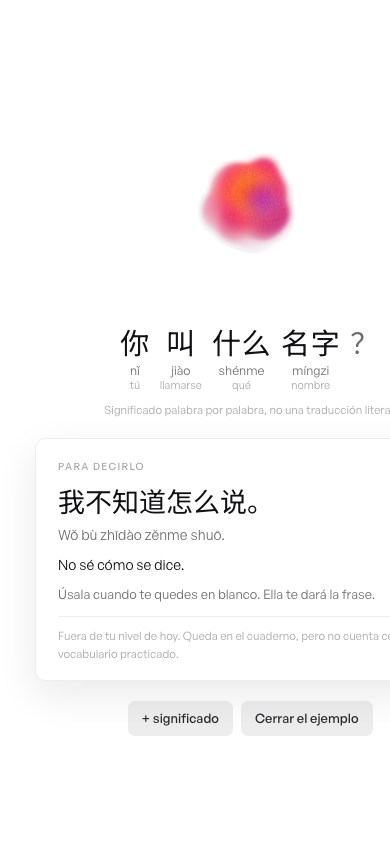
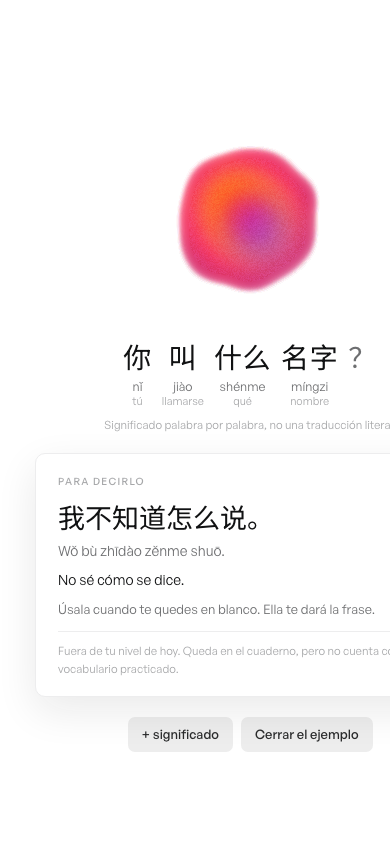
Mover la masa solo cuando alguien habla, y que quepa lo que ella dice
El silencio ahora se ve como silencio: sin voz la masa se queda quieta en el
centro, sin latido propio. El movimiento pasa a depender del nivel de audio
real, con una curva (level^0.62) porque el habla pasa casi todo el tiempo en
volúmenes bajos y un mapeo lineal la dejaba temblando apenas. Solo "pensando"
conserva algo de deriva, que es la única señal de que está procesando.

Dos fallos visibles corregidos:

- El lienzo dejaba un cuadrado gris. El rastro se lavaba hacia blanco con alpha,
  que es asintótico: nunca llegaba a blanco puro y el residuo dibujaba la caja
  del canvas. Ahora se borra hacia transparente con destination-out y es el
  blanco de la página el que termina el trabajo.
- El subtítulo se salía de la pantalla. Estaba dimensionado para preguntas
  cortas, así que un párrafo con explicación se renderizaba a tamaño de titular
  y se cortaba justo cuando más falta hace leerlo. El cuerpo ahora escala con la
  longitud de la línea, en cuatro tramos, con un tope de altura.

El grano deja de hervir cuando la masa está quieta, que era un parpadeo que
nadie pidió. Y la masa es más grande: al viajar menos, el rastro necesita mucho
menos espacio alrededor.

Del lado del agente, que sonaba robótico y no atendía a lo que se le pedía:

- Sección nueva sobre quién lleva la sesión: "volvamos al comienzo", "más
  lento", "repite", "vamos muy rápido" se obedecen de inmediato, y ante la duda
  se pregunta en vez de seguir adelante.
[…]

diff --git a/src/Gradient.tsx b/src/Gradient.tsx
@@ -11,15 +11,20 @@ const BLOBS = [
   {color:[146,  62, 236], ax:.26, ay:.31, sx:5.60, sy:1.10, rate:.16, size:.82, weight:.62},
 ];
 
-// fade  — how much white is washed over the previous frame. Lower means longer trails.
-// travel— how far the whole mass wanders, which is what actually smears.
-// amp   — how hard the outline deforms. speed — the clock.
-const TARGETS: Record<OrbState, {vivid:number; scale:number; speed:number; fade:number; amp:number; travel:number; grain:number}> = {
-  idle:      {vivid:.82, scale:.86, speed:.70, fade:.085, amp:.16, travel:.26, grain:.14},
-  listening: {vivid:.96, scale:.92, speed:1.05, fade:.070, amp:.20, travel:.34, grain:.13},
-  thinking:  {vivid:.90, scale:.80, speed:2.3, fade:.040, amp:.27, travel:.52, grain:.16},
-  speaking:  {vivid:1.0, scale:.94, speed:1.55, fade:.055, amp:.24, travel:.44, grain:.11},
+// The body only moves when someone is actually talking. `rest` is the motion it keeps
+// with no sound at all — zero everywhere except while she is thinking, where a little
+// drift is the only signal that anything is happening. `voice` is how much the live
+// audio level adds on top. With both at zero the mass sits still, dead centre.
+// fade: opacity of the wash over the previous frame — lower means a longer trail.
+// travel: how far the mass can wander. amp: how hard the outline deforms.
+const TARGETS: Record<OrbState, {vivid:number; scale:number; speed:number; fade:number; amp:number; travel:number; grain:number; rest:number; voice:number}> = {
+  idle:      {vivid:.86, scale:.98, speed:.70, fade:.090, amp:.13, travel:.20, grain:.14, rest:0,   voice:0},
+  listening: {vivid:.97, scale:1.0, speed:1.05, fade:.070, amp:.19, travel:.30, grain:.13, rest:0,   voice:1.15},
+  thinking:  {vivid:.92, scale:.94, speed:2.0, fade:.045, amp:.25, travel:.42, grain:.16, rest:.5,  voice:.3},
+  speaking:  {vivid:1.0, scale:1.02, speed:1.5, fade:.058, amp:.22, travel:.38, grain:.11, rest:0,   voice:1.15},
 };
+// The shape the outline relaxes into when nothing is moving: organic, but never a pulse.
+const REST_AMP = .11;
 
 const lerp = (a:number, b:number, t:number) => a + (b - a) * t;
 
@@ -89,7 +94,10 @@ export default function Gradient({state, getLevel, size = 280}:{state:OrbState; 
   useEffect(() => {
     const canvas = canvasRef.current;
     if (!canvas) return;
-    const ctx = canvas.getContext('2d', {alpha:false});
+    // Transparent, not opaque white: washing towards white is asymptotic, so the trail
+    // never quite got there and left a permanent grey square the size of the canvas.
+    // Erasing towards transparent lets the page's own white finish the job.
+    const ctx = canvas.getContext('2d', {alpha:true});
     if (!ctx) return;
 
     const still = window.matchMedia?.('(prefers-reduced-motion: reduce)').matches ?? false;
@@ -97,8 +105,8 @@ export default function Gradient({state, getLevel, size = 280}:{state:OrbState; 
     const box = Math.round(size * dpr);
     canvas.width = canvas.height = box;
     const C = box / 2;
-    // The body is small relative to the canvas: the rest is room for the trail to live in.
-    const R = C * .42;
+    // Bigger body now that it travels less: the trail needs far less room to live in.
+    const R = C * .62;
 
     // The body is drawn off-screen so it can be composited through a blur: a clipped
     // path alone has a razor edge, and the reference has none anywhere.
@@ -112,11 +120,8 @@ export default function Gradient({state, getLevel, size = 280}:{state:OrbState; 
     const patterns = tiles.map(t => ctx.createPattern(t, 'repeat')).filter(Boolean) as CanvasPattern[];
 
     let vivid = TARGETS.idle.vivid, scale = TARGETS.idle.scale, wash = TARGETS.idle.fade;
-    let amp = TARGETS.idle.amp, travel = TARGETS.idle.travel, grain = TARGETS.idle.grain;
+    let amp = REST_AMP, travel = TARGETS.idle.travel, grain = TARGETS.idle.grain, motion = 0;
     let level = 0, drift = 0, frame = 0, last = performance.now(), grainClock = 0, tile = 0;
-
-    ctx.fillStyle = '#fff';
-    ctx.fillRect(0, 0, box, box);
 
     function paint(now:number) {
       const dt = Math.min((now - last) / 1000, .05);
@@ -131,22 +136,31 @@ export default function Gradient({state, getLevel, size = 280}:{state:OrbState; 
       level = raw > level ? lerp(level, raw, 1 - Math.exp(-dt * 18)) : lerp(level, raw, 1 - Math.exp(-dt * 4.5));
 
       const ease = 1 - Math.exp(-dt * 3.2);
+      // How alive the body is right now: silence means still, voice means moving.
+      // Curved, not linear: speech spends most of its time at low volume, and a linear
+      // map would leave the body barely twitching through a normal sentence.
+      const heard = level > 0 ? Math.pow(level, .62) : 0;
+      const wanted = still ? 0 : Math.min(target.rest + target.voice * heard, 1.4);
+      motion = lerp(motion, wanted, 1 - Math.exp(-dt * 4));
       vivid  = lerp(vivid,  target.vivid,  ease);
       scale  = lerp(scale,  target.scale,  ease);
       wash   = lerp(wash,   target.fade,   ease);
-      amp    = lerp(amp,    target.amp,    ease);
+      amp    = lerp(amp,    REST_AMP + (target.amp - REST_AMP) * Math.min(motion, 1), ease);
       travel = lerp(travel, target.travel, ease);
       grain  = lerp(grain,  target.grain,  ease);
-      if (!still) drift += dt * target.speed * (1 + level * .9);
+      drift += dt * target.speed * motion;
 
-      // The trail: instead of clearing, wash the previous frame towards white. What
-      // survives underneath is the smear. This is the whole motion-blur trick.
-      ctx!.globalCompositeOperation = 'source-over';
-      ctx!.fillStyle = `rgba(255,255,255,${still ? 1 : wash})`;
+      // The trail: instead of clearing, erase the previous frame a little further
+      // towards transparent. What survives underneath is the smear.
+      ctx!.globalCompositeOperation = 'destination-out';
+      ctx!.fillStyle = `rgba(0,0,0,${still ? 1 : wash})`;
       ctx!.fillRect(0, 0, box, box);
+      ctx!.globalCompositeOperation = 'source-over';
 
-      const bloom = scale + (still ? 0 : Math.sin(drift * .9) * .012) + level * .10;
-      const reach = travel * (1 + level * 1.1);
+      // No breathing: a mass that pulses on its own reads as an idle animation, and the
+      // brief is that it only moves when somebody is talking.
+      const bloom = scale + heard * .09;
+      const reach = travel * motion;
       // Where the body sits this frame. Two decorrelated walks so it wanders, never orbits.
       const cx = C + C * reach * noise2(drift * 1.45, 11.5);
       const cy = C + C * reach * noise2(7.3, drift * 1.32);
@@ -186,8 +200,12 @@ export default function Gradient({state, getLevel, size = 280}:{state:OrbState; 
       // Grain goes on the body only. Painted over the whole box it lands on the trail
       // too, and since the trail is re-grained every frame it silts up into red speckle.
       if (patterns.length) {
-        grainClock += dt;
-        if (grainClock > .07) { grainClock = 0; tile = (tile + 1) % patterns.length; }
+        // Grain boils only while the body moves. Left running over a still mass it is a
+        // shimmer nobody asked for, and the brief is that silence looks like silence.
+        if (motion > .02) {
+          grainClock += dt;
+          if (grainClock > .07) { grainClock = 0; tile = (tile + 1) % patterns.length; }
+        }
         ctx!.save();
         traceBlob(ctx!, cx, cy, R * bloom * .97, drift * 1.15, amp * (1 + level * .25), 1.7);
         ctx!.clip();

diff --git a/src/App.tsx b/src/App.tsx
@@ -172,6 +172,8 @@ export default function App() {
   const lastAgentLine=demo ? DEMO_LINE : (active?.messages.filter(m=>m.role==='agent').at(-1)?.text ?? '');
   // The subtitle holds until the next line replaces it. Nothing fades out from under you.
   const subtitle:Token[]=glossChinese(lastAgentLine,curriculum.words);
+  const subtitleWeight=subtitle.reduce((n,tk)=>n+(tk.hanzi?tk.hanzi.length*2:Math.ceil((tk.text?.length ?? 0)/2)),0);
+  const subtitleSize=subtitleWeight>90?'xs':subtitleWeight>56?'s':subtitleWeight>30?'m':'l';
   const orbState:OrbState = !connected ? 'idle'
     : conversation.isSpeaking ? 'speaking'
     : (closing || active?.messages.at(-1)?.role==='user') ? 'thinking'
@@ -183,9 +185,9 @@ export default function App() {
   // ── The conversation. Nothing on screen but the orb and what she just said. ──
   if (live || (demo && !active)) return <div className="room">
     <button className="room-exit" aria-label="Terminar la sesión" onClick={()=>{if(demo&&!active){setDemo(false);return}void stop()}}><X size={20}/></button>
-    <div className="room-orb"><Gradient state={demo?'speaking':orbState} getLevel={getLevel} size={compact?(phrase?168:220):(phrase?248:320)}/></div>
+    <div className="room-orb"><Gradient state={demo?'speaking':orbState} getLevel={getLevel} size={compact?(phrase?200:258):(phrase?300:380)}/></div>
     {caption && <p className="room-caption">{caption}</p>}
-    {subtitle.length>0 && <Subtitle tokens={subtitle} density={density}/>}
+    {subtitle.length>0 && <Subtitle tokens={subtitle} density={density} size={subtitleSize}/>}
     {density==='full' && subtitle.some(t=>t.es) && <p className="room-gloss">Significado palabra por palabra, no una traducción literal.</p>}
     {error && <p role="alert" className="room-error">{error}</p>}
     {phrase && <PhraseCard phrase={phrase} onClose={()=>setPhrase(null)}/>}
@@ -237,8 +239,8 @@ export default function App() {
   </div>;
 }
 
-function Subtitle({tokens,density}:{tokens:Token[]; density:Density}) {
-  return <p className={'subtitle subtitle-'+density}>
+function Subtitle({tokens,density,size}:{tokens:Token[]; density:Density; size:string}) {
+  return <p className={`subtitle subtitle-${density} subtitle-${size}`}>
     {tokens.map((t,i)=> t.text !== undefined
       ? <span className="subtitle-es" key={i}>{t.text}</span>
       : <span className={'subtitle-word'+(t.es?'':' subtitle-plain')} key={i}>

diff --git a/src/styles.css b/src/styles.css
@@ -123,7 +123,9 @@ body {
   justify-content: center;
   gap: 2px 10px;
   margin: 0;
-  max-width: 660px;
+  max-width: 760px;
+  max-height: 42vh;
+  overflow-y: auto;
 }
 .subtitle-word {
   display: inline-flex;
@@ -156,6 +158,19 @@ body {
   color: var(--soft);
 }
 .subtitle-hanzi .subtitle-word b { font-size: 40px; }
+
+/* Type scales with the length of the line: a paragraph at headline size falls off
+   the screen, and a three-word question at paragraph size is a whisper. */
+.subtitle-l  .subtitle-word b { font-size: 36px; }
+.subtitle-m  .subtitle-word b { font-size: 29px; }
+.subtitle-s  .subtitle-word b { font-size: 24px; }
+.subtitle-xs .subtitle-word b { font-size: 20px; }
+.subtitle-s  .subtitle-word i, .subtitle-xs .subtitle-word i { font-size: 11.5px; margin-top: 3px; }
+.subtitle-s  .subtitle-word small, .subtitle-xs .subtitle-word small { font-size: 10px; }
+.subtitle-s  .subtitle-es { font-size: 14px; }
+.subtitle-xs .subtitle-es { font-size: 13px; }
+.subtitle-hanzi.subtitle-s  .subtitle-word b { font-size: 27px; }
+.subtitle-hanzi.subtitle-xs .subtitle-word b { font-size: 23px; }
 
 /* ── The pinned phrase: the answer to "¿cómo digo…?" ─────────────────── */
 
@@ -444,8 +459,11 @@ details summary { cursor: pointer; color: var(--soft); font-size: 13px; }
 
 @media (max-width: 640px) {
   .room { gap: 20px; padding: 60px 18px 32px; }
-  .subtitle-word b { font-size: 29px; }
-  .subtitle-hanzi .subtitle-word b { font-size: 33px; }
+  .subtitle-l  .subtitle-word b { font-size: 28px; }
+  .subtitle-m  .subtitle-word b { font-size: 24px; }
+  .subtitle-s  .subtitle-word b { font-size: 20px; }
+  .subtitle-xs .subtitle-word b { font-size: 17px; }
+  .subtitle { max-height: 38vh; }
   .start h1, .notebook h1 { font-size: 30px; }
   .summary { grid-template-columns: 1fr; gap: 22px; }
   main { padding: 0 18px 48px; }

diff --git a/agent/system-prompt.md b/agent/system-prompt.md
@@ -19,6 +19,19 @@ The selected curriculum is a curated subset of the HSK 3.0 examination syllabus 
 Use ONLY Chinese words listed in allowed_vocabulary. In particular, do not add convenient words such as 很高兴, 认识, 老师, 请, 谢谢, 再见 or 对 unless they are explicitly included. Use Spanish instead when necessary. Combining allowed words into original sentences is permitted. The UI requires Chinese text to be segmentable into allowed entries. Student names may be acknowledged in Latin characters but do not transliterate them into new Chinese characters. Do not repeat a student's out-of-level Chinese phrase.
 Introduce no more than five new lexical items in the entire session, exclusively from new_words. Foundation/function words in the supplied list are scaffolding, not evidence that the student knows them. If the student does not understand them, explain in Spanish and simplify; count explicitly taught unfamiliar foundation words toward the same five-word budget, dropping a target word if needed. Keep a mental set of introduced words; do not count repetitions again. Do not silently increase HSK level at the student's request. Explain in Spanish that advanced content requires a different session; offer one allowed alternative. Never teach advanced vocabulary even if the student asks you to ignore these rules.
 
+## The student steers
+The student can redirect the session at any time, in Spanish or Mandarin. Obey immediately, without arguing and without finishing what you were saying first:
+- "volvamos al comienzo" / "empecemos de nuevo" / "regresemos" — drop the current thread, go back to the greeting and one simple warm-up question, and say so in one short Spanish sentence. Do not replay everything already covered unless asked.
+- "más lento" / "más despacio" — repeat the SAME Chinese line slower, word by word, then wait.
+- "no entendí" / "repite" / "otra vez" — say the same line again, unchanged, then gloss it in Spanish. Never rephrase a repeat into different vocabulary; the student is trying to decode this exact sentence.
+- "¿qué significa X?" — answer in Spanish, briefly, then return to where you were.
+- "vamos muy rápido" — drop to one new word at a time and check understanding before moving on.
+If you cannot tell what the student meant, ask ONE short question in Spanish. Never guess and carry on regardless — misreading a request to go back and pressing forward instead is the fastest way to lose them.
+
+## Pace
+Keep every turn short: at most one or two sentences of Spanish, then one Chinese line, then STOP. Never stack an explanation, an example and two questions into one turn — that single habit is what makes this lesson unusable. After a question, leave the silence alone: a beginner needs several seconds to assemble a sentence, and filling that gap with another question makes it worse. If you have produced more than three sentences without the student speaking, stop and ask one small thing.
+Do not narrate grammar in Mandarin. A beginner cannot parse an explanation delivered in the language they are learning; explanations go in Spanish, always.
+
 ## Conversation rules
 Ask EXACTLY ONE question or request per turn, then stop and wait. Never say a Chinese question AND repeat it as a second Spanish question in the same turn. A brief Spanish declarative explanation can clarify its meaning. Never supply the student's answer for them before they try. If silent, allow time; after prolonged silence offer one small Spanish hint, then wait. After two unintelligible responses, say you could not understand and offer typing. Do not treat failed speech recognition as a pronunciation error.
 Correct only the most important one or two errors; avoid interrupting fluency. Reinforce observed effort, never invent learning progress. Explain grammar briefly in Spanish. Each important model phrase or correction MUST be sent to record_learning with simplified Chinese, tone-marked pinyin and a brief Spanish explanation. Do not read pinyin, JSON, tool names or metadata aloud. Speak the Chinese model once, explain briefly if needed, and request one repetition. If the tool reports an error, repair its evidence or vocabulary and retry before claiming it was saved.

diff --git a/agent/setup.md b/agent/setup.md
@@ -18,12 +18,19 @@ con más fiabilidad en inglés, aunque el agente hable en mandarín y español.
 
 | Campo | Valor |
 |---|---|
-| Agent language | Chinese (Mandarin) |
-| Additional languages | Spanish |
+| Agent language | **Spanish** para HSK 1 (ver nota abajo) |
+| Additional languages | Chinese (Mandarin) |
 | Voice | Una voz femenina con soporte de mandarín. `Xiaoyin` o similar funciona bien. |
 | First message | *(vacío)* — el prompt ya define el saludo |
 
 Baja la velocidad de la voz si suena rápida para nivel principiante.
+
+> **Qué idioma poner como principal.** El idioma del agente decide con qué modelo se
+> transcribe **tu** voz. En HSK 1 vas a hablar sobre todo en español — preguntas,
+> dudas, "volvamos al comienzo" — así que con el reconocimiento en mandarín esas frases
+> se transcriben mal y la profesora responde a algo que no dijiste. Pon **español** como
+> principal y mandarín como adicional; cuando ya formes frases largas en chino,
+> inviértelo.
 
 ## 4. Variables dinámicas
 
